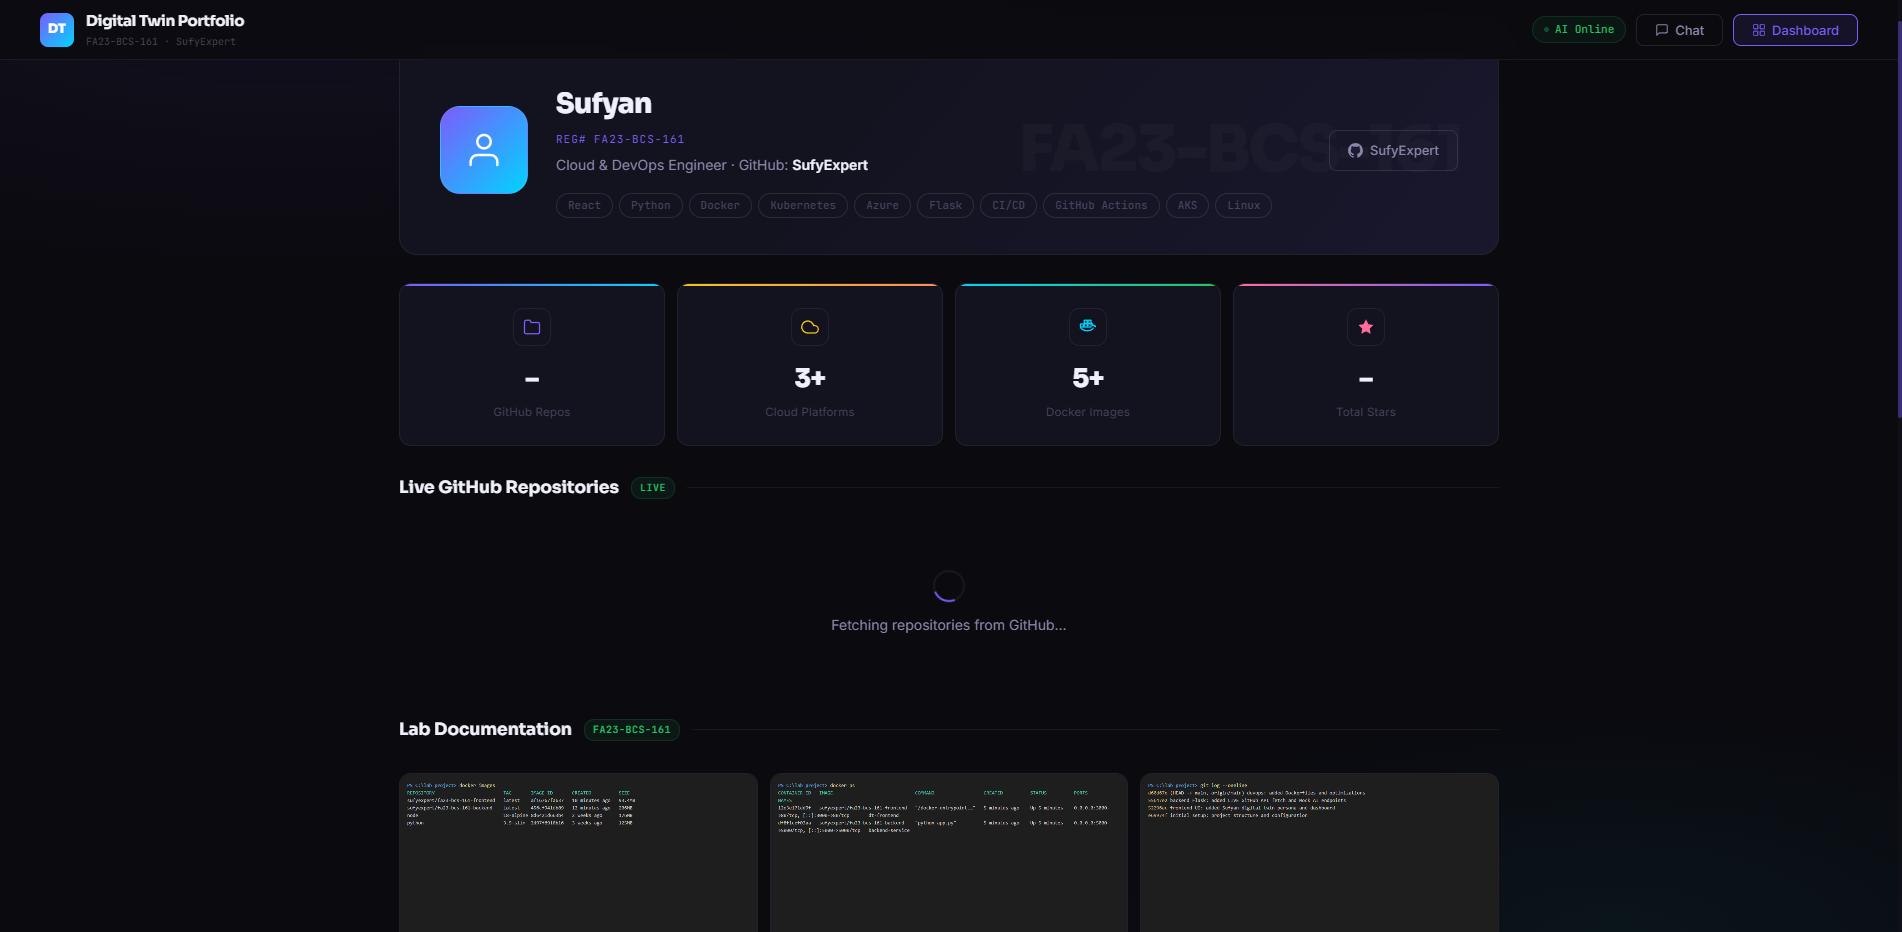
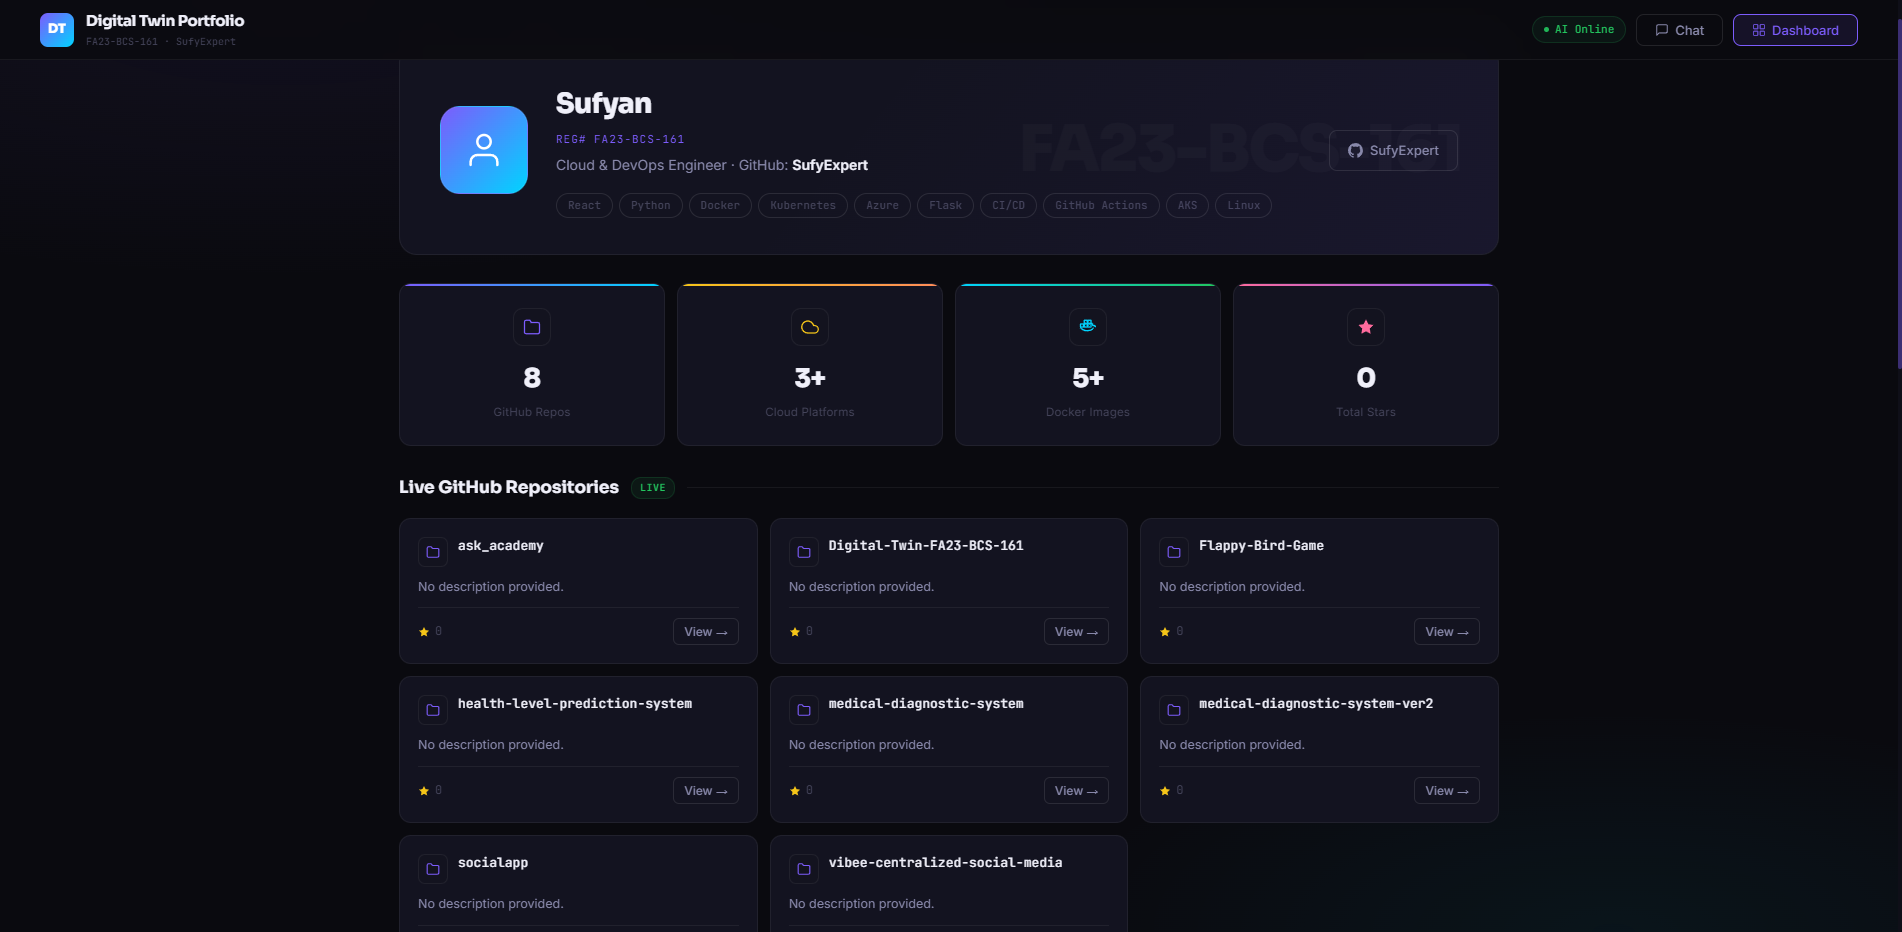
fix: resolve Postgres PVC lost+found crash, correct seed schemas, and enable visible Selenium local execution

diff --git a/sync_supabase.py b/sync_supabase.py
@@ -25,36 +25,51 @@ DROP TABLE IF EXISTS services CASCADE;
 
 -- Create tables
 CREATE TABLE experience (
-    id SERIAL PRIMARY KEY,
+    id VARCHAR(255) PRIMARY KEY,
+    title VARCHAR(255),
     company VARCHAR(255),
-    role VARCHAR(255),
-    duration VARCHAR(100),
-    description TEXT,
+    date_range VARCHAR(100),
+    employment_type VARCHAR(100),
+    bullets TEXT,
+    status VARCHAR(50),
+    order_index INTEGER,
     created_at TIMESTAMP DEFAULT CURRENT_TIMESTAMP
 );
 
 CREATE TABLE projects (
-    id SERIAL PRIMARY KEY,
-    name VARCHAR(255) UNIQUE,
+    id VARCHAR(255) PRIMARY KEY,
+    title VARCHAR(255),
+    slug VARCHAR(255) UNIQUE,
     description TEXT,
-    html_url VARCHAR(512),
-    stargazers_count INTEGER DEFAULT 0,
+    cover_image_url VARCHAR(512),
+    link VARCHAR(512),
+    github_link VARCHAR(512),
+    technologies TEXT,
+    tools TEXT,
+    case_study_content TEXT,
+    status VARCHAR(50),
+    is_featured BOOLEAN,
+    order_index INTEGER,
+    category VARCHAR(100),
     created_at TIMESTAMP DEFAULT CURRENT_TIMESTAMP
 );
 
 CREATE TABLE project_images (
-    id SERIAL PRIMARY KEY,
-    project_id INTEGER REFERENCES projects(id) ON DELETE CASCADE,
-    image_url TEXT,
-    caption VARCHAR(255),
+    id VARCHAR(255) PRIMARY KEY,
+    project_id VARCHAR(255) REFERENCES projects(id) ON DELETE CASCADE,
+    url VARCHAR(512),
+    order_index INTEGER,
     created_at TIMESTAMP DEFAULT CURRENT_TIMESTAMP
 );
 
 CREATE TABLE services (
-    id SERIAL PRIMARY KEY,
+    id VARCHAR(255) PRIMARY KEY,
     title VARCHAR(255),
+    slug VARCHAR(255) UNIQUE,
+    tagline VARCHAR(255),
     description TEXT,
-    icon VARCHAR(100),
+    features TEXT,
+    order_index INTEGER,
     created_at TIMESTAMP DEFAULT CURRENT_TIMESTAMP
 );
 """

diff --git a/test_selenium.py b/test_selenium.py
@@ -9,7 +9,8 @@ from selenium.webdriver.support import expected_conditions as EC
 
 # Configure Chrome Options
 chrome_options = Options()
-chrome_options.add_argument("--headless=new")  # Run in headless mode for CI/CD compatibility
+if os.environ.get("CI") == "true":
+    chrome_options.add_argument("--headless=new")  # Headless mode for CI/CD compatibility
 chrome_options.add_argument("--no-sandbox")
 chrome_options.add_argument("--disable-dev-shm-usage")
 chrome_options.add_argument("--window-size=1920,1080")
@@ -32,7 +33,7 @@ def driver():
     print("\nTearing down Selenium driver...")
     driver.quit()
 
-TARGET_URL = "http://localhost:3000"
+TARGET_URL = "http://20.255.118.236"
 
 def test_homepage_loaded(driver):
     """Test Case 1: Verify Homepage Loads Successfully"""
@@ -97,7 +98,7 @@ def test_api_database_connected(driver):
     except Exception as e:
         # Fallback direct API endpoint check
         print("Dashboard check failed, performing direct Flask DB API check...")
-        driver.get("http://localhost:5000/api/db-status")
+        driver.get(f"{TARGET_URL}/api/db-status")
         time.sleep(1)
         api_content = driver.find_element(By.TAG_NAME, "pre").text
         print(f"Direct API Response: {api_content}")